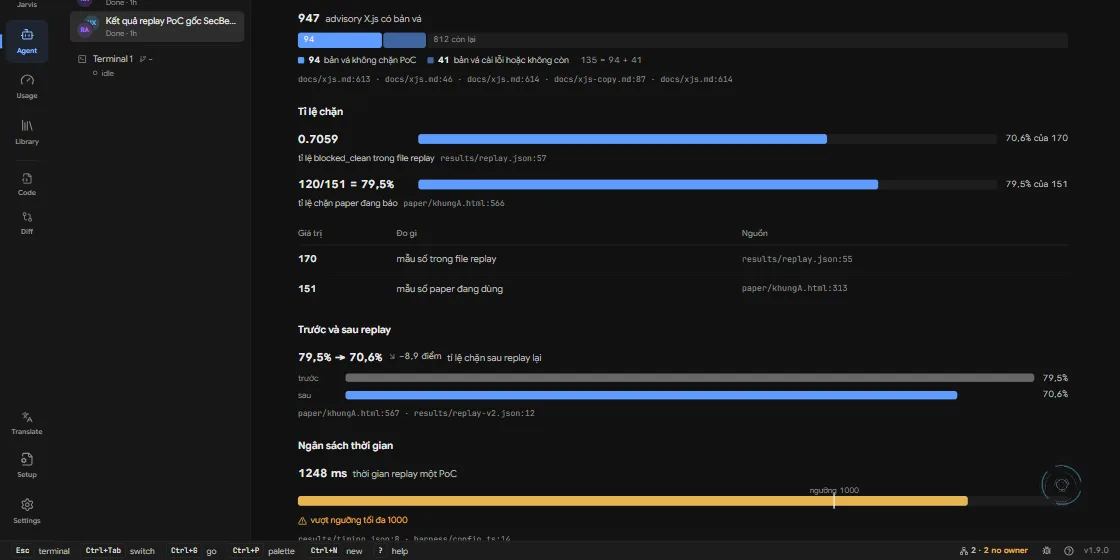
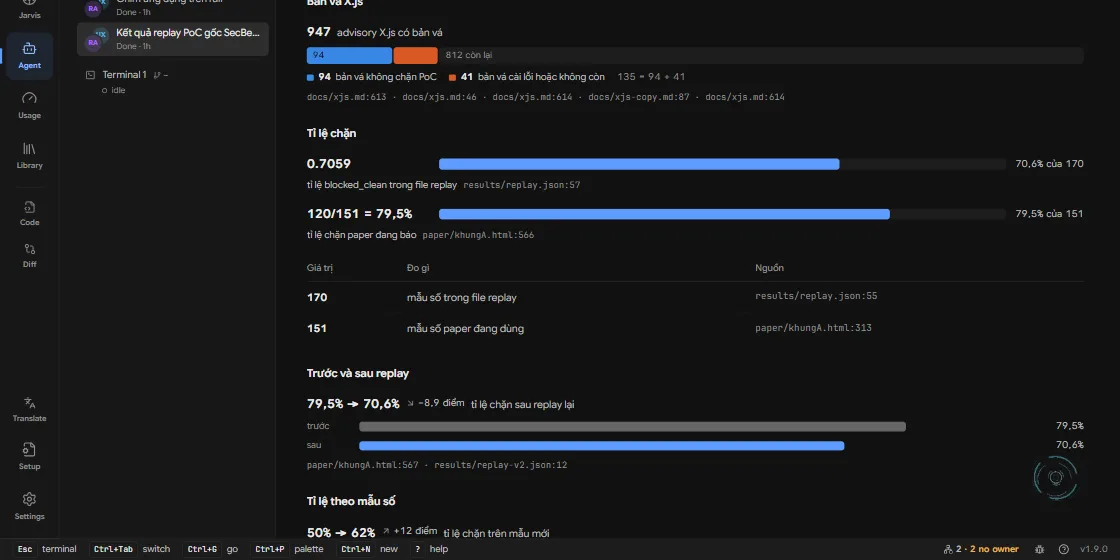
fix(council): Figures draws a rate's earlier rate as one change; a whole's parts each take a colour
sectionView claimed every rate with a denominator as a bar over it before it looked at was, so two rates over their
own denominators (0.7059 of 170, was 120/151) stood as two meters and the drop between them was never drawn. A rate on
either side of a was now goes to the change, drawn on a 0-100% scale and headed in percents (79,5% -> 70,6%).

The parts of one whole took lighter and lighter steps of the accent; they are parts of different kinds, so each now
takes a slot of a categorical palette, figure-1..6 (the dataviz skill's dark steps, validated adjacent-pairs on all ten
theme surfaces: worst CVD dE 8.4, normal 19.3, all >= 3:1), labelled in figure-ink. A bar of more than six parts keeps
the accent's steps. The scenario fixture gains two rates over their denominators linked by was.

diff --git a/frontend/app/view/agents/councilreporttablesview.tsx b/frontend/app/view/agents/councilreporttablesview.tsx
@@ -179,12 +179,18 @@ export function FiguresTable({ c }: { c: Council }) {
 // a figure's places as one mono line: its ref, then the other places that hold it
 const placesOf = (r: FigureRow) => [r.ref, ...r.refs].filter((p) => p !== "");
 
-// the fills of a bar's parts in order: one hue, each part a step lighter than the one before, so two neighbours never
-// share a fill; a bar of more parts than steps repeats from the strongest. What is left of the whole is the bare track.
-const PART_FILLS = ["bg-accent", "bg-accent/60", "bg-accent/35", "bg-accent/20"];
+// the fills of a bar's parts in order: the parts are different things, so each takes the next slot of the categorical
+// palette (tailwindsetup.css figure-1..6), never cycled. A bar of more parts than slots draws them all in one hue
+// instead, each a step lighter than the one before, so two neighbours never share a fill. What is left of the whole is
+// the bare track.
+const PART_FILLS = ["bg-figure-1", "bg-figure-2", "bg-figure-3", "bg-figure-4", "bg-figure-5", "bg-figure-6"];
+const PART_STEPS = ["bg-accent", "bg-accent/60", "bg-accent/35", "bg-accent/20"];
 
-function segmentFill(s: StackSegment, index: number): string {
-    return s.row == null ? "bg-pill" : PART_FILLS[index % PART_FILLS.length];
+function segmentFill(s: StackSegment, index: number, parts: number): string {
+    if (s.row == null) {
+        return "bg-pill";
+    }
+    return parts <= PART_FILLS.length ? PART_FILLS[index] : PART_STEPS[index % PART_STEPS.length];
 }
 
 // below this share a part's label does not fit inside it: the legend under the bar names it
@@ -194,8 +200,11 @@ const LABEL_MIN_SHARE = 0.09;
  *  as its share), a legend naming each part, the parts split further as "135 = 94 + 41", and the lines it comes from. */
 function StackBarView({ bar, lang }: { bar: StackBar; lang: CouncilLang }) {
     // a part's place among the parts (the rest is none), which picks its fill in the bar and the legend alike
-    const fills = new Map(bar.segments.filter((s) => s.row != null).map((s, i) => [s, segmentFill(s, i)]));
+    const named = bar.segments.filter((s) => s.row != null);
+    const fills = new Map(named.map((s, i) => [s, segmentFill(s, i, named.length)]));
     const parts = [...fills.keys()];
+    // a categorical fill takes the near-black ink (≥ 4.8:1 on every slot); the accent's steps keep the primary ink
+    const ink = named.length <= PART_FILLS.length ? "text-figure-ink" : "text-primary";
     return (
         <div data-council-figure-bar="stack" className="flex min-w-0 flex-col gap-2">
             <div className="flex min-w-0 flex-wrap items-baseline gap-x-2">
@@ -211,8 +220,8 @@ function StackBarView({ bar, lang }: { bar: StackBar; lang: CouncilLang }) {
                         style={{ flexGrow: s.share, flexBasis: 0 }}
                         className={cn(
                             "flex min-w-[3px] items-center overflow-hidden rounded-[4px] px-2 text-[11.5px] tabular-nums",
-                            fills.get(s) ?? segmentFill(s, 0),
-                            s.row == null ? "text-muted" : "text-primary"
+                            fills.get(s) ?? segmentFill(s, 0, named.length),
+                            s.row == null ? "text-muted" : ink
                         )}
                     >
                         {s.share >= LABEL_MIN_SHARE ? <span className="truncate">{s.label}</span> : null}
@@ -355,7 +364,7 @@ function ChangeChart({ chart, lang }: { chart: ChangeView; lang: CouncilLang }) 
         <div data-council-figure-bar="change" className="flex min-w-0 flex-col gap-2">
             <div className="flex min-w-0 flex-wrap items-baseline gap-x-2">
                 <span className="font-semibold tabular-nums text-primary">
-                    {chart.from.value} → {chart.to.value}
+                    {chart.fromText} → {chart.toText}
                 </span>
                 <span
                     data-council-figure-delta

diff --git a/frontend/app/view/agents/councilreporttables.ts b/frontend/app/view/agents/councilreporttables.ts
@@ -331,7 +331,9 @@ export interface ChangeView {
     to: FigureRow;
     delta: string; // "+20", "−8,9 điểm"
     dir: "up" | "down" | "same";
-    scale: number; // the larger of the two levels: both bars are drawn against it
+    scale: number; // what both bars are drawn against: 1 (100%) for two rates, else the larger of the two levels
+    fromText: string; // the earlier figure as the chart says it: "79,5%" for a rate, its value for a count
+    toText: string;
 }
 
 /** A figure held to a limit: a bar to its level with the limit marked on it. */
@@ -411,8 +413,17 @@ export function sectionView(section: FigureSection, lang: CouncilLang): FigureSe
     const drawn = new Set<number>();
     const bars: FigureChart[] = [];
     const indexOf = (value: string, not: number) => rows.findIndex((r, j) => j !== not && r.value === value);
+    // the earlier figure a figure names with was, when both read as a level: the pair is drawn as one change
+    const wasOf = (i: number) => {
+        const r = rows[i];
+        const j = r.was !== "" && r.level != null ? indexOf(r.was, i) : -1;
+        return j >= 0 && rows[j].level != null ? j : -1;
+    };
+    // a rate on either side of a change is drawn by the change ("79,5% → 70,6%"), not as a bar over its denominator:
+    // claimed as two bars first, the pair stood as two unrelated meters and the drop it is about was never drawn
+    const inChange = new Set(rows.flatMap((_, i) => (wasOf(i) >= 0 ? [i, wasOf(i)] : [])));
     rows.forEach((r, i) => {
-        if (r.rate && r.share != null) {
+        if (r.rate && r.share != null && !inChange.has(i)) {
             drawn.add(i);
             bars.push({
                 kind: "rate",
@@ -466,21 +477,23 @@ export function sectionView(section: FigureSection, lang: CouncilLang): FigureSe
         bars.push({ kind: "stack", whole: r, segments, subtotals, rows: barRows });
     });
     rows.forEach((r, i) => {
-        if (r.was !== "" && r.level != null && !drawn.has(i)) {
-            const j = indexOf(r.was, i);
+        const j = drawn.has(i) ? -1 : wasOf(i);
+        if (j >= 0) {
             const from = rows[j];
-            if (j >= 0 && from.level != null) {
-                drawn.add(i).add(j);
-                const d = r.level - from.level;
-                bars.push({
-                    kind: "change",
-                    from,
-                    to: r,
-                    delta: changeText(d, r.rate, lang),
-                    dir: Math.abs(d) < 1e-12 ? "same" : d > 0 ? "up" : "down",
-                    scale: Math.max(Math.abs(r.level), Math.abs(from.level)) || 1,
-                });
-            }
+            drawn.add(i).add(j);
+            const d = r.level! - from.level!;
+            const rates = r.rate && from.rate;
+            const text = (row: FigureRow) => (rates ? percentText(row.level!, lang) : row.value);
+            bars.push({
+                kind: "change",
+                from,
+                to: r,
+                delta: changeText(d, r.rate, lang),
+                dir: Math.abs(d) < 1e-12 ? "same" : d > 0 ? "up" : "down",
+                scale: rates ? 1 : Math.max(Math.abs(r.level!), Math.abs(from.level!)) || 1,
+                fromText: text(from),
+                toText: text(r),
+            });
         }
         if (r.limit !== "" && r.level != null) {
             const j = indexOf(r.limit, i);

diff --git a/frontend/app/view/agents/councilreporttables.test.ts b/frontend/app/view/agents/councilreporttables.test.ts
@@ -405,10 +405,51 @@ describe("sectionView's other charts", () => {
         const [rates] = views();
         expect(rates.loose).toEqual([]);
         expect(rates.bars).toEqual([
-            expect.objectContaining({ kind: "change", delta: "−8,9 điểm", dir: "down", scale: 0.795 }),
+            expect.objectContaining({ kind: "change", delta: "−8,9 điểm", dir: "down", scale: 1 }),
         ]);
         const c = rates.bars[0] as ChangeView;
         expect([c.from.value, c.to.value]).toEqual(["79,5%", "70,6%"]);
+        expect([c.fromText, c.toText]).toEqual(["79,5%", "70,6%"]);
+    });
+
+    // council 5186f93c (2026-11-24): two rates over their denominators, the later naming the earlier with was. Each was
+    // claimed as a bar over its denominator first, so they stood as two meters and the drop was never drawn
+    it("draws two rates over their denominators as one change when one names the other with was", () => {
+        const [rates] = figureSections(
+            council({
+                lang: "vi",
+                figures: [
+                    figure({
+                        value: "0.7059",
+                        group: "Tỉ lệ",
+                        of: "170",
+                        share: 0.7059,
+                        was: "120/151 = 79,5%",
+                        rate: true,
+                        level: 0.7059,
+                    }),
+                    figure({
+                        value: "120/151 = 79,5%",
+                        group: "Tỉ lệ",
+                        of: "151",
+                        share: 120 / 151,
+                        rate: true,
+                        level: 120 / 151,
+                    }),
+                ],
+            })
+        ).map((s) => sectionView(s, "vi"));
+        expect(rates.bars.map((b) => b.kind)).toEqual(["change"]);
+        const c = rates.bars[0] as ChangeView;
+        expect([c.fromText, c.toText, c.delta, c.scale]).toEqual(["79,5%", "70,6%", "−8,9 điểm", 1]);
+        expect(rates.loose).toEqual([]);
+    });
+
+    it("keeps a rate with no earlier value as a bar over its denominator", () => {
+        const [rates] = figureSections(
+            council({ figures: [figure({ value: "0.4", group: "R", of: "10", share: 0.4, rate: true, level: 0.4 })] })
+        ).map((s) => sectionView(s, "en"));
+        expect(rates.bars.map((b) => b.kind)).toEqual(["rate"]);
     });
 
     it("draws a figure against its limit, with its side in words", () => {

diff --git a/frontend/tailwindsetup.css b/frontend/tailwindsetup.css
@@ -276,6 +276,20 @@
     --color-chart-3: #2a9d8f; /* team */
     --color-chart-4: #b04fbf; /* brainstorm */
 
+    /* The parts of one whole in a council report's Figures (a stacked bar: 94 | 41 of 135), in this fixed order, one
+       slot per part: the dataviz skill's categorical palette, dark steps. An identity palette like chart-1..4, kept
+       across themes; a bar of more parts than slots falls back to the accent's steps. Validated adjacent-pairs on every
+       theme's surfaceRaised (worst colour-blind ΔE 8.4, normal-vision 19.3, all ≥ 3:1), and every part also has its
+       legend line, so colour never names a part alone. A label inside a part is figure-ink (≥ 4.8:1 on every slot;
+       white is ~3:1). docs/agents/council-chart-palette.md has the run. */
+    --color-figure-1: #3987e5; /* blue */
+    --color-figure-2: #d95926; /* orange */
+    --color-figure-3: #199e70; /* aqua */
+    --color-figure-4: #c98500; /* yellow */
+    --color-figure-5: #d55181; /* magenta */
+    --color-figure-6: #0ca30c; /* green */
+    --color-figure-ink: #111111;
+
     /* Runtime accents — trademark colors: Claude coral (claude-color.svg #D97757); Codex is a
        monochrome mark (codex.svg #111), inverted to near-white for legibility on the dark cockpit.
        The Claude mark is the one runtime color a theme tints (ThemePalette.claudeMark in

diff --git a/docs/agents/council-chart-palette.md b/docs/agents/council-chart-palette.md
@@ -53,3 +53,28 @@ validator's "relief required: visible labels or table view" for the brainstorm p
 lightest surfaces; figure F gives it both (a direct label on every newest-harness point, and the Table toggle), and the
 purple is never the only way to tell brainstorm apart: it is the only ◆. If a theme later fails a hard check, step that
 slot's lightness (keep it inside L 0.48–0.67) and rerun the loop above over every theme.
+
+## The Figures parts palette
+
+A council report's Figures section draws the parts of one whole (a stacked bar: 94 | 41 of 135) each in its own colour,
+`--color-figure-1..6` in this fixed order (one slot per part, never cycled; a bar of more than six parts draws them all
+in the accent's steps instead). It is the dataviz skill's categorical palette, its dark steps, kept across themes like
+`chart-1..4`. A rate, a change, a limit and a comparison of figures of one unit stay in the accent: those are one series,
+not parts of different kinds.
+
+| Token | Hue | Hex |
+|---|---|---|
+| `figure-1` | blue | `#3987e5` |
+| `figure-2` | orange | `#d95926` |
+| `figure-3` | aqua | `#199e70` |
+| `figure-4` | yellow | `#c98500` |
+| `figure-5` | magenta | `#d55181` |
+| `figure-6` | green | `#0ca30c` |
+| `figure-ink` | label inside a part | `#111111` |
+
+**Validator run, 2026-11-24:** `node <validator> "#3987e5,#d95926,#199e70,#c98500,#d55181,#0ca30c" --mode dark --surface
+<surfaceRaised>` (adjacent pairs: the parts sit side by side) for each of the ten `surfaceRaised` values in `THEMES`:
+every one "ALL CHECKS PASS", worst colour-blind ΔE 8.4 (`#c98500` ↔ `#199e70`, protan), worst normal-vision ΔE 19.3
+(`#d55181` ↔ `#c98500`), all six ≥ 3:1 on every surface. Every part also has its line in the legend under the bar, so
+colour never names a part alone. A label inside a part is `figure-ink`: 4.8 to 6.2:1 on the six slots, where white is
+3.1 to 3.9:1.

diff --git a/CHANGELOG.md b/CHANGELOG.md
@@ -70,6 +70,7 @@ and a picture given to a line that is not big.
 
 ### Changed
 
+- In a council report's Figures, the parts of one whole (94 | 41 of 135) each have their own colour, matched by the legend under the bar, instead of lighter and lighter shades of one colour.
 - A council's saved report is now short: a to-do table (each task, why, the files it touches, its kind) and a table of
   the figures checked against the project's files, written in the question's language. The full reasoning, the
   discussion and everything about how the council worked move to a `.discussion.md` file beside it.
@@ -101,6 +102,7 @@ and a picture given to a line that is not big.
 
 ### Fixed
 
+- A council report's Figures now draws a rate and the earlier rate it replaced as one before → after chart ("79,5% → 70,6%, −8,9 điểm"), even when each rate has its own denominator. Before, the two stood as separate bars and the drop between them was not drawn.
 - A prompt that starts with `@` and the id of a council, a run or a past conversation now goes to the agent you typed it to, which reads that id, instead of being dropped as a message to an agent that isn't there.
 - A message a hook stops before it reaches the agent now shows "Not sent" in Chat with the reason, and its text comes back to the box once. Before, Chat showed it as sent, and each retry added another copy to the terminal's box.
 - Esc in Chat on a message you just sent with pastes now puts it back as you wrote it, pastes as chips, not wrapped in Claude Code's paste tags. Sending it again no longer leaves a stray copy of it under the conversation.

diff --git a/DESIGN.md b/DESIGN.md
@@ -271,7 +271,8 @@ clay; `CLAUDE_BRAND` in `themes.ts` holds the clay) / `rt-codex` `#ececec` /
 green, `mem-feedback` amber, `mem-user` purple), **jarvis graph node kinds**
 (`graph-task/decision/memory/run/semantic`), **connection status icons**
 (`conn-1..8`), **the council benchmark's variants** (`chart-1..4`: solo, council,
-team, brainstorm; `docs/agents/council-chart-palette.md`), and **provider brand dots**
+team, brainstorm; `docs/agents/council-chart-palette.md`), **the parts of one whole in a council report's Figures**
+(`figure-1..6`, in fixed order, with `figure-ink` for a label inside a part; the same file), and **provider brand dots**
 (`provider-*`). Neutral white overlays (`hover`, `hoverbg`, `highlightbg`,
 `pill`) are also preserved across themes.
 
